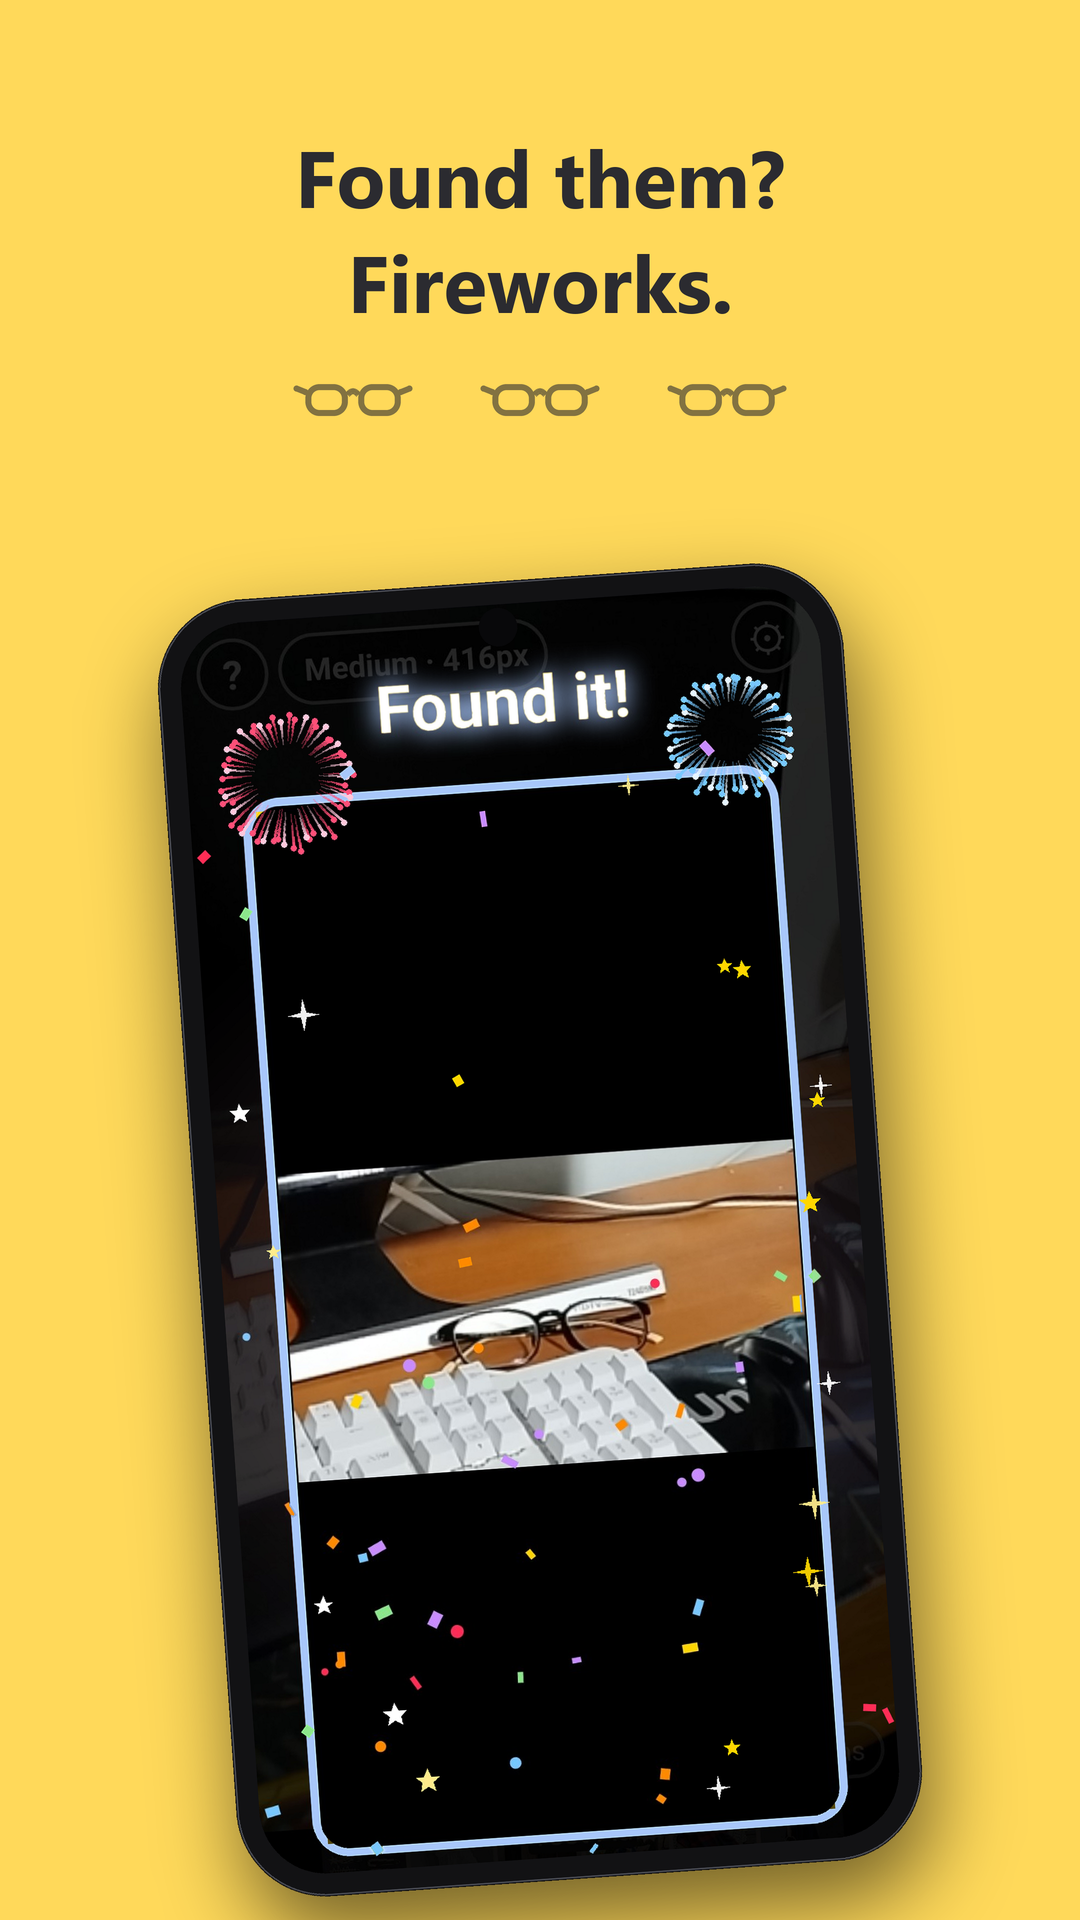
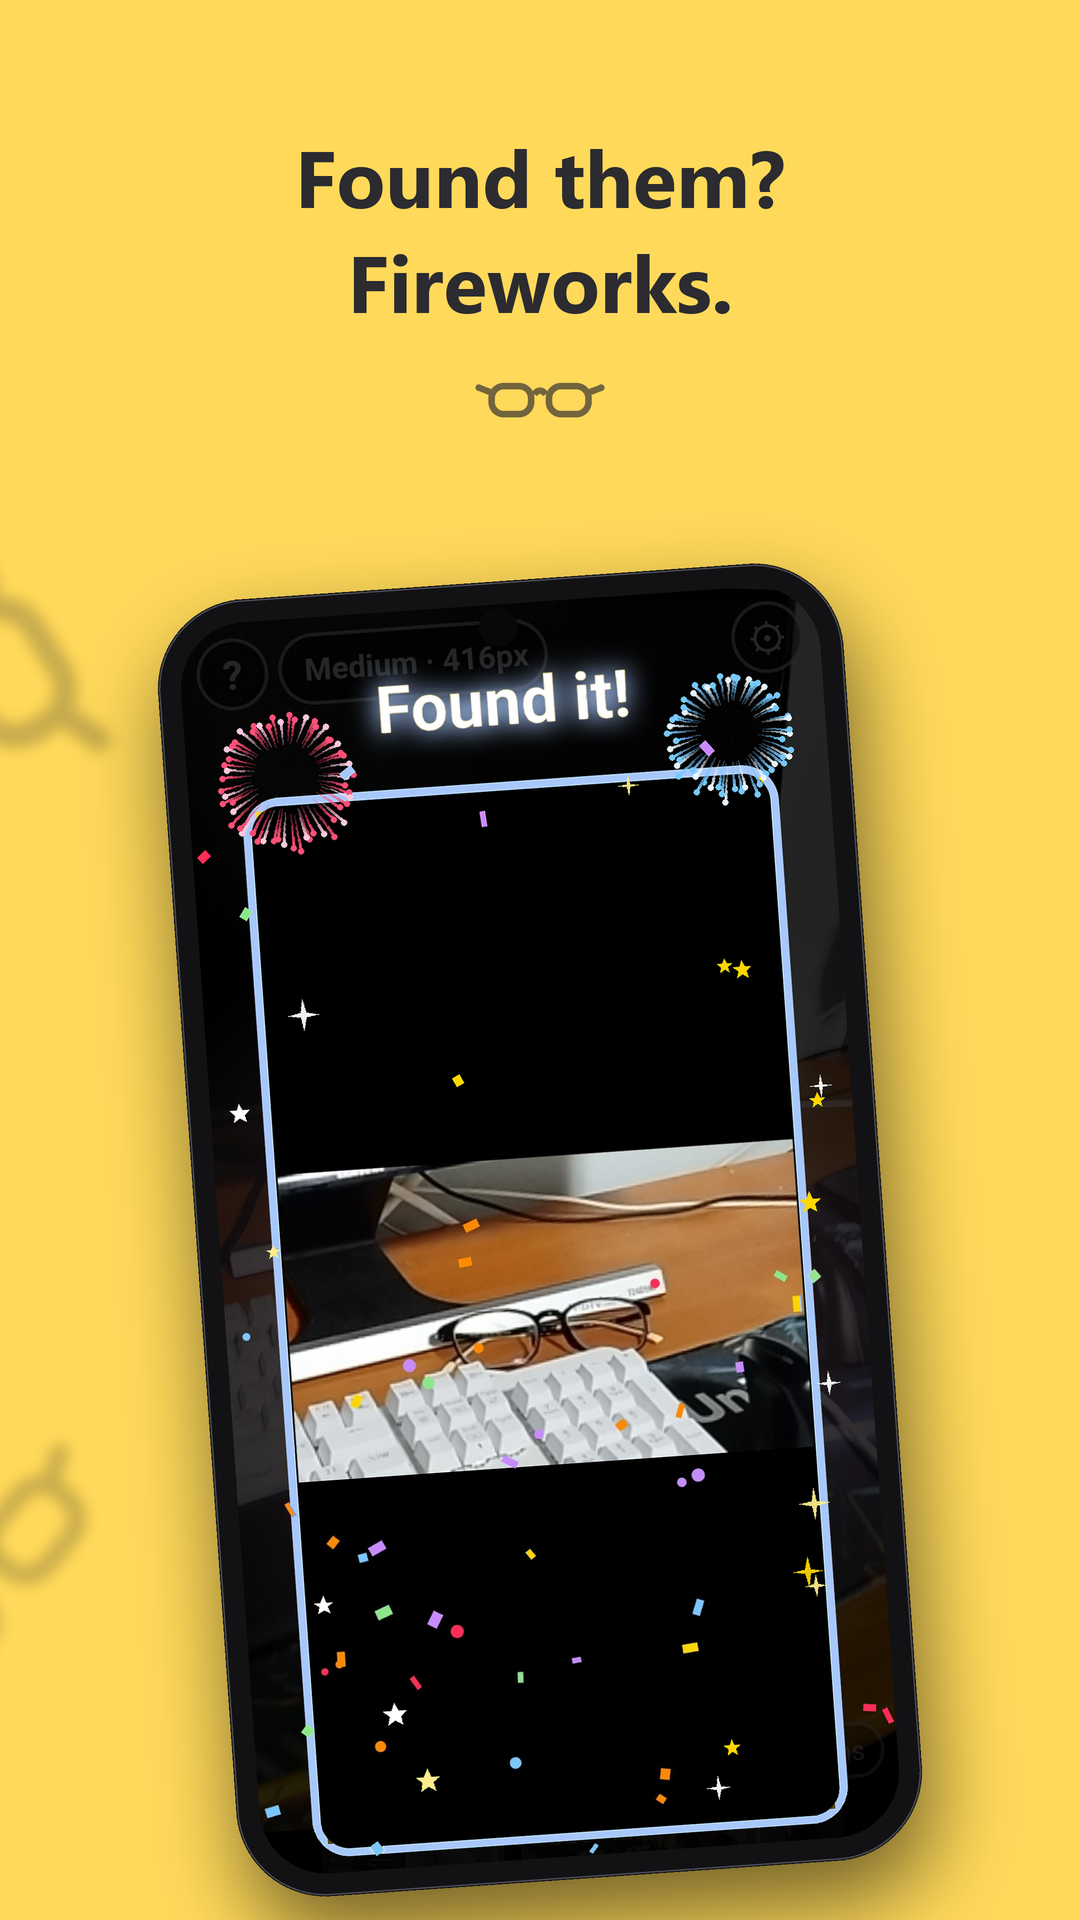
Store screenshots: blurry room as the first tile (human view, no phone), one glasses mark per tile, big soft glasses across the seams

diff --git a/poc/scripts/render_store_yellow.py b/poc/scripts/render_store_yellow.py
@@ -1,16 +1,14 @@
 """스토어 스크린샷 (노랑 테마) — 1080x1920 세 장.
 
-1 흐릿함 (안경 없이 보는 세상) → 2 찾는 화면 → 3 폭죽.
-
-아이콘과 같은 노랑 배경 + 먹색 글자. 제목 아래에 아이콘의 안경 세 개를 한 줄로 둔다
-(장식. 폰·글자·경계에 걸리지 않는다).
-문구는 짧게.
+1 흐릿한 방 (안경 벗은 사람 눈으로 본 모습. 폰 없이 배경 전체, 오른쪽으로 노랑에 스며든다)
+2 찾는 화면   3 폭죽 화면
+아이콘과 같은 노랑 배경 + 먹색 글자. 제목 아래에 아이콘의 안경 하나.
+두 장의 경계에는 크고 흐릿한 안경을 몇 개 걸쳐 둔다 (폰에 가리지 않는 빈 틈에).
 
     uv run python scripts/render_store_yellow.py
 """
 from __future__ import annotations
 
-import math
 import random
 
 from PIL import Image, ImageDraw, ImageFilter, ImageFont
@@ -23,18 +21,19 @@ INK = (43, 43, 48)
 FB = r"C:\Windows\Fonts\segoeuib.ttf"
 
 TILES = [
-    # (화면, 문구, 폰 기울기). "blur" 는 찾은 사진을 크게 오려 심하게 흐린 화면.
-    ("blur", ("Everything’s", "a blur?"), 4.0),
+    # (화면, 문구, 폰 기울기). None 은 폰 없이 흐릿한 방.
+    (None, ("Everything’s", "a blur?"), 0.0),
     ("screenshot-2-search.png", ("Find your glasses", "without your glasses."), -4.0),
     ("screenshot-1-found.png", ("Found them?", "Fireworks."), 4.0),
 ]
+N = len(TILES)
 PHONE_H = 1300
 PHONE_Y = 1230
 TEXT_Y = (175, 280)
-ORNAMENT_Y = 400        # 제목과 폰 사이
-N = len(TILES)
+ORNAMENT_Y = 400
+SEAM_GLASSES = 2          # 경계마다
 
-random.seed(21)
+random.seed(8)
 
 
 def glasses_sprite(width: int, color) -> Image.Image:
@@ -60,64 +59,87 @@ def glasses_sprite(width: int, color) -> Image.Image:
     d.line(pts, fill=color, width=stroke, joint="curve")
     for a, b in (((27, 50), (22, 48)), ((81, 50), (86, 48))):
         d.line([P(*a), P(*b)], fill=color, width=stroke)
-        for q in (a, b):   # 둥근 끝
+        for q in (a, b):
             x, y = P(*q)
             d.ellipse([x - stroke / 2, y - stroke / 2, x + stroke / 2, y + stroke / 2], fill=color)
     return big.resize((w, h), Image.LANCZOS)
 
 
-def blur_screen() -> Image.Image:
-    """찾았어요 화면 속 사진(안경이 있는 책상)만 오려 화면 가득 키우고 알아볼 수 없게 흐린다."""
+def blurry_room(w: int, h: int) -> Image.Image:
+    """찾았어요 화면 속 사진(책상)을 화면 가득 키워 알아볼 수 없게 흐린다 — 안경 벗은 눈."""
     found = Image.open(REL / "screenshot-1-found.png").convert("RGB")
-    photo = found.crop((90, 700, 810, 1128))          # 테두리 안 사진 부분
-    tw, th = 900, 1760
-    s = max(tw / photo.width, th / photo.height)
-    big = photo.resize((int(photo.width * s), int(photo.height * s)), Image.LANCZOS)
-    x = (big.width - tw) // 2
-    big = big.crop((x, 0, x + tw, th))
-    return big.filter(ImageFilter.GaussianBlur(55))
-
-
-def screen_for(name: str) -> Image.Image:
-    return blur_screen() if name == "blur" else screen(name)
+    photo = found.crop((90, 700, 810, 1128))
+    s = max(w / photo.width, h / photo.height)
+    big = photo.resize((int(photo.width * s) + 2, int(photo.height * s) + 2), Image.LANCZOS)
+    x = (big.width - w) // 2
+    return big.crop((x, 0, x + w, h)).filter(ImageFilter.GaussianBlur(60 * SS))
 
 
 def main() -> None:
     PW, PH = W * N * SS, H * SS
     canvas = Image.new("RGBA", (PW, PH), YELLOW + (255,))
 
-    # 폰은 따로 그려 두고, 폰이 차지한 자리를 안경이 피하게 한다
+    # 1장: 흐릿한 방. 오른쪽 끝 360px 에서 노랑으로 스며든다 (2장과 이어지게)
+    room = blurry_room(W * SS, PH).convert("RGBA")
+    room.alpha_composite(Image.new("RGBA", room.size, (0, 0, 0, 60)))       # 글자가 읽히게 살짝 어둡게
+    fade = Image.new("L", room.size, 255)
+    fd = ImageDraw.Draw(fade)
+    f0 = (W - 360) * SS
+    for x in range(f0, W * SS):
+        t = (x - f0) / (W * SS - f0)
+        fd.line([(x, 0), (x, PH)], fill=int(255 * (1 - t) ** 1.5))
+    room.putalpha(fade)
+    canvas.alpha_composite(room, (0, 0))
+
+    # 폰은 따로 그려 두고, 폰 자리를 경계 안경이 피하게 한다
     phones = Image.new("RGBA", (PW, PH), (0, 0, 0, 0))
     for i, (name, _, ang) in enumerate(TILES):
-        place(phones, phone(screen_for(name), PHONE_H * SS), (i * W + W // 2) * SS, PHONE_Y * SS, ang)
-    busy = phones.split()[3].point(lambda a: 255 if a > 20 else 0).filter(ImageFilter.MaxFilter(61))
+        if name:
+            place(phones, phone(screen(name), PHONE_H * SS), (i * W + W // 2) * SS, PHONE_Y * SS, ang)
+    busy = phones.split()[3].point(lambda a: 255 if a > 20 else 0).filter(ImageFilter.MaxFilter(41))
 
-    f = ImageFont.truetype(FB, 80 * SS)
-    d_busy = ImageDraw.Draw(busy)
-    for i, (_, (l1, l2), _) in enumerate(TILES):
-        cx = (i * W + W // 2) * SS
-        for line, y in zip((l1, l2), TEXT_Y):
-            x0, y0, x1, y1 = ImageDraw.Draw(canvas).textbbox((cx, y * SS), line, font=f, anchor="mm")
-            d_busy.rectangle([x0 - 40 * SS, y0 - 40 * SS, x1 + 40 * SS, y1 + 40 * SS], fill=255)
-
-    # 안경 장식 — 장마다 제목 아래에 같은 크기 세 개를 한 줄로 가지런히 (세 장 모두 같은 자리)
-    gw, gap, gy = 120 * SS, 46 * SS, ORNAMENT_Y * SS
-    spr = glasses_sprite(gw, INK + (150,))
-    placed = []
-    for i in range(N):
-        cx = (i * W + W // 2) * SS
-        total = 3 * spr.width + 2 * gap
-        x = cx - total // 2
-        for j in range(3):
-            canvas.alpha_composite(spr, (x + j * (spr.width + gap), gy - spr.height // 2))
-            placed.append((i, j))
+    # 경계에 걸친 크고 흐릿한 안경 — 폰 사이 빈 틈, 위아래로 나눠서
+    seam_layer = Image.new("RGBA", (PW, PH), (0, 0, 0, 0))
+    bd = ImageDraw.Draw(busy)
+    for seam in range(1, N):
+        sx = seam * W * SS
+        for band in range(SEAM_GLASSES):
+            y_lo = (560 + band * 700) * SS
+            y_hi = (560 + band * 700 + 600) * SS
+            for _ in range(400):
+                gw = int(random.uniform(300, 470) * SS)
+                ang = random.uniform(25, 60) * random.choice((1, -1))   # 세로로 세우면 쇠사슬처럼 보인다
+                spr = glasses_sprite(gw, INK + (70,)).rotate(ang, resample=Image.BICUBIC, expand=True)
+                spr = spr.filter(ImageFilter.GaussianBlur(7 * SS))
+                cx = sx + random.randint(-50, 50) * SS
+                cy = random.randint(y_lo, y_hi)
+                x, y = cx - spr.width // 2, cy - spr.height // 2
+                if y < 0 or y + spr.height > PH:
+                    continue
+                # 폰과 겹치는지 — 안경 모양 그대로 확인
+                m = spr.split()[3].point(lambda a: 255 if a > 10 else 0)
+                region = busy.crop((x, y, x + spr.width, y + spr.height))
+                hit = Image.composite(region, Image.new("L", region.size, 0), m).getbbox()
+                if hit:
+                    continue
+                seam_layer.alpha_composite(spr, (x, y))
+                bd.rectangle([x, y, x + spr.width, y + spr.height], fill=255)   # 서로 안 겹치게
+                break
+    canvas.alpha_composite(seam_layer)
 
     canvas.alpha_composite(phones)
+
+    f = ImageFont.truetype(FB, 80 * SS)
     d = ImageDraw.Draw(canvas)
-    for i, (_, (l1, l2), _) in enumerate(TILES):
+    orn_ink = glasses_sprite(130 * SS, INK + (170,))
+    orn_white = glasses_sprite(130 * SS, (255, 255, 255, 220))
+    for i, (name, (l1, l2), _) in enumerate(TILES):
         cx = (i * W + W // 2) * SS
-        d.text((cx, TEXT_Y[0] * SS), l1, font=f, fill=INK, anchor="mm")
-        d.text((cx, TEXT_Y[1] * SS), l2, font=f, fill=INK, anchor="mm")
+        col = (255, 255, 255) if name is None else INK
+        d.text((cx, TEXT_Y[0] * SS), l1, font=f, fill=col, anchor="mm")
+        d.text((cx, TEXT_Y[1] * SS), l2, font=f, fill=col, anchor="mm")
+        orn = orn_white if name is None else orn_ink
+        canvas.alpha_composite(orn, (cx - orn.width // 2, ORNAMENT_Y * SS - orn.height // 2))
 
     full = canvas.convert("RGB").resize((W * N, H), Image.LANCZOS)
     full.save(REL / "store-yellow-spread.png")
@@ -125,7 +147,6 @@ def main() -> None:
         p = REL / f"store-yellow-{i + 1}.png"
         full.crop((i * W, 0, (i + 1) * W, H)).save(p)
         print(p)
-    print("glasses placed:", len(placed))
 
 
 if __name__ == "__main__":
